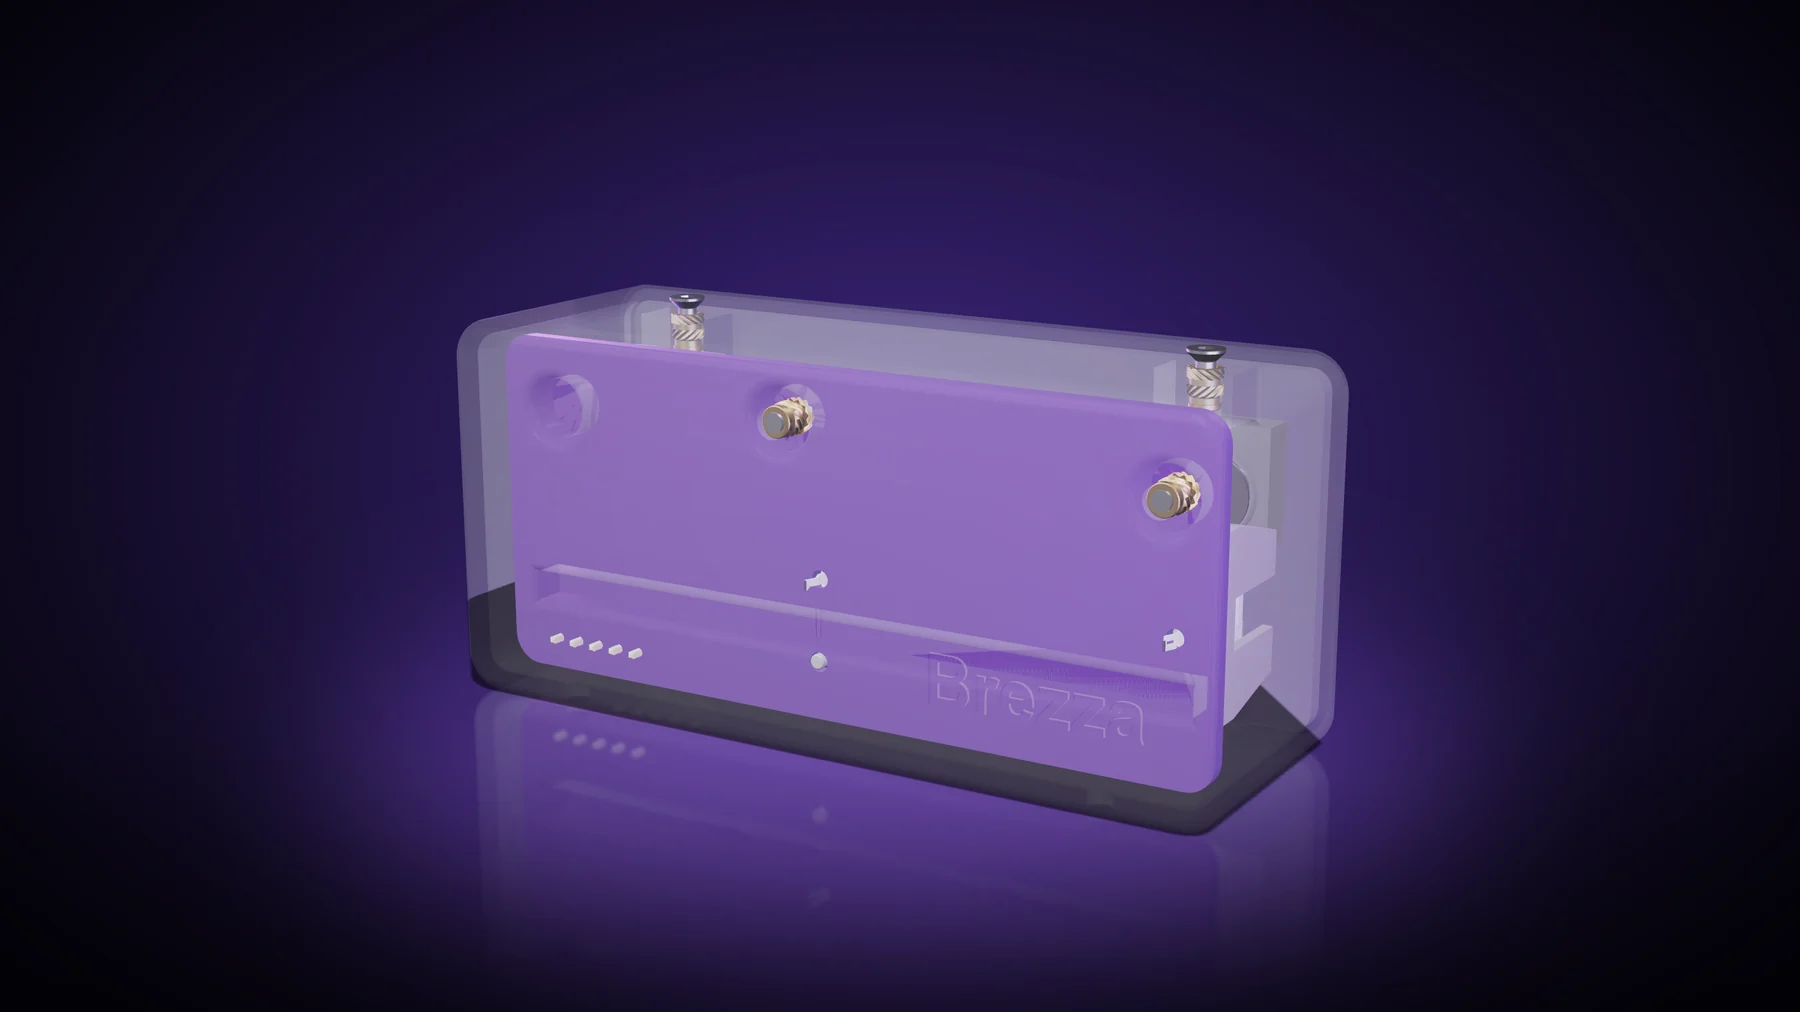
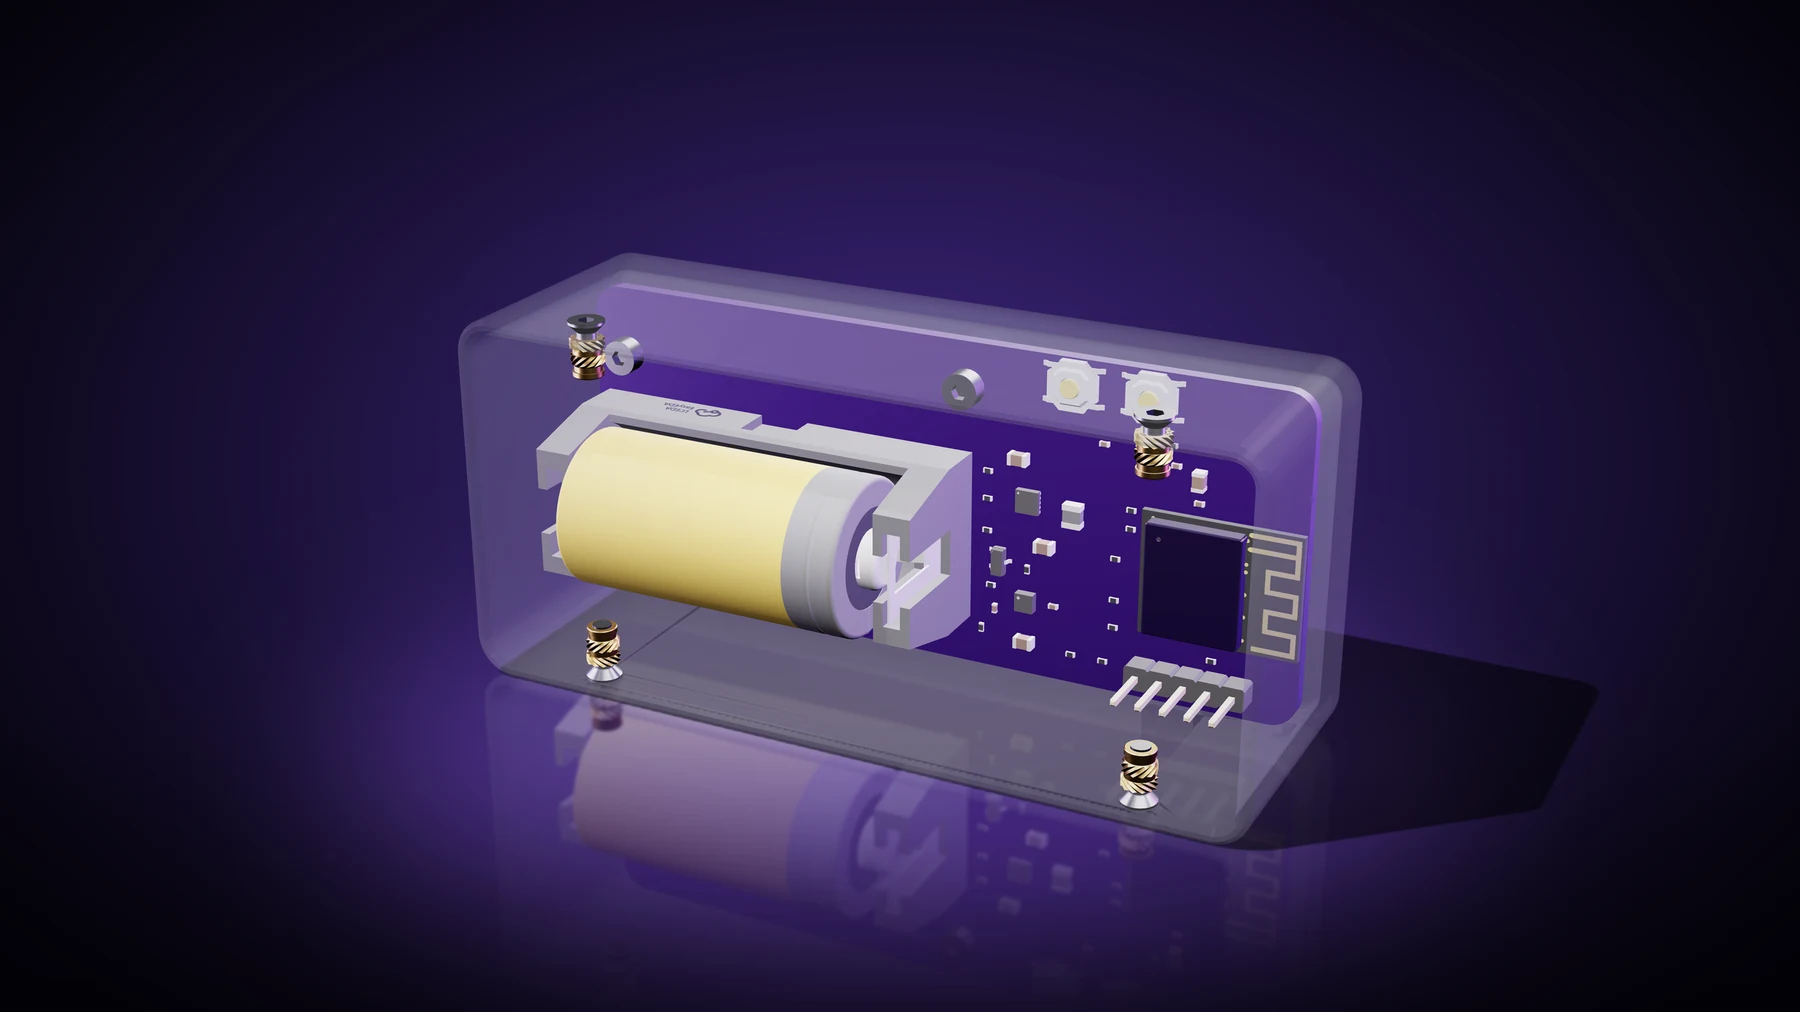
Carousel: clear-glass box rebuilt from the separate-body model, seen from the back
Claude-Session: https://claude.ai/code/session_017dD8CsxqmC6i7KGPqd1hP3

Changed region(s): [[0.2489, 0.2451, 0.9022, 0.8577]]

diff --git a/index.html b/index.html
@@ -177,7 +177,7 @@ footer{padding:40px 0;text-align:center;color:var(--muted);font-size:13px;border
   </div>
   <div class="stage-hero">
     <div class="glow"></div><span class="ring"></span><span class="ring r2"></span><span class="ring r3"></span>
-    <div class="float"><img class="hero-img" id="heroimg" src="img/hero_board.webp?v=4" alt="The Brezza board: ESP32-H2, accelerometer and CR123A holder"></div>
+    <div class="float"><img class="hero-img" id="heroimg" src="img/hero_board.webp?v=5" alt="The Brezza board: ESP32-H2, accelerometer and CR123A holder"></div>
   </div>
 </header>
 
@@ -210,8 +210,8 @@ footer{padding:40px 0;text-align:center;color:var(--muted);font-size:13px;border
     <p class="lead rv d2">Same firmware, same pin map. Pick the one that fits your workshop.</p>
     <div class="grid">
       <div class="card rv"><h3>Breadboard</h3><p>ESP32-H2 SuperMini and a GY-291 breakout, with the cell on the 3V3 pin. The quickest way to try it.</p><a data-gh="https://github.com/altrdev/brezza/tree/main/hardware/breadboard">Wiring ›</a></div>
-      <div class="card rv d1"><img src="img/pcb_module.webp?v=4" alt="Module board, 3D view"><h3>Module board</h3><p>Custom 80 × 35 mm PCB with ESP32-H2-MINI-1 and a TPS63900 buck-boost. Assembled by JLCPCB.</p><a data-gh="https://github.com/altrdev/brezza/tree/main/hardware/pcb">KiCad and BOM ›</a></div>
-      <div class="card rv d2"><img src="img/pcb_supermini.webp?v=4" alt="SuperMini board, 3D view"><h3>SuperMini board</h3><p>The same electronics with a SuperMini soldered by its edge. Easier to source.</p><a data-gh="https://github.com/altrdev/brezza/tree/main/hardware/pcb_supermini">KiCad and BOM ›</a></div>
+      <div class="card rv d1"><img src="img/pcb_module.webp?v=5" alt="Module board, 3D view"><h3>Module board</h3><p>Custom 80 × 35 mm PCB with ESP32-H2-MINI-1 and a TPS63900 buck-boost. Assembled by JLCPCB.</p><a data-gh="https://github.com/altrdev/brezza/tree/main/hardware/pcb">KiCad and BOM ›</a></div>
+      <div class="card rv d2"><img src="img/pcb_supermini.webp?v=5" alt="SuperMini board, 3D view"><h3>SuperMini board</h3><p>The same electronics with a SuperMini soldered by its edge. Easier to source.</p><a data-gh="https://github.com/altrdev/brezza/tree/main/hardware/pcb_supermini">KiCad and BOM ›</a></div>
     </div>
     <p class="lead rv">Design decisions and numbers: <a data-gh="https://github.com/altrdev/brezza/blob/main/hardware/SPEC.md"><code>hardware/SPEC.md</code></a></p>
   </div>
@@ -226,12 +226,12 @@ footer{padding:40px 0;text-align:center;color:var(--muted);font-size:13px;border
   <div class="car-wrap rv">
     <button class="nav-btn prev" id="prev" aria-label="Previous image">&#8249;</button>
     <div class="track" id="track" tabindex="0" aria-label="Enclosure images">
-      <figure class="slide on"><img src="img/slide-1.webp?v=4" alt="Closed box, front"><figcaption>Closed: it sits flat on the face of the bar.</figcaption></figure>
-      <figure class="slide"><img src="img/slide-2.webp?v=4" alt="Back of the box with the two T-nuts" loading="lazy"><figcaption>The back, with the two T-nuts that slide into the slot of the bar.</figcaption></figure>
-      <figure class="slide"><img src="img/slide-3.webp?v=4" alt="The base plate fixed on a section of the rail with two M4 screws, with the brass inserts in its four tabs" loading="lazy"><figcaption>The base on the rail: two T-nuts in the slot and two M4 screws hold it in place. The four brass inserts take the screws of the box.</figcaption></figure>
-      <figure class="slide"><img src="img/slide-4.webp?v=4" alt="The empty box seen from the back: the inside of the lid with its two brass inserts and the central rib" loading="lazy"><figcaption>The empty box, from the back: the inside of the lid, with the two brass inserts that take the board's M2 screws.</figcaption></figure>
-      <figure class="slide"><img src="img/slide-5.webp?v=4" alt="The inside of the box with the back plate removed: the purple board, the CR123A cell in its holder and the connector" loading="lazy"><figcaption>With the electronics: the board with its two M2 screws, the CR123A cell and its holder.</figcaption></figure>
-      <figure class="slide"><img src="img/slide-6.webp?v=4" alt="The box in clear glass with the board, inserts and screws in place" loading="lazy"><figcaption>The box in clear glass: board, inserts and screws in place.</figcaption></figure>
+      <figure class="slide on"><img src="img/slide-1.webp?v=5" alt="Closed box, front"><figcaption>Closed: it sits flat on the face of the bar.</figcaption></figure>
+      <figure class="slide"><img src="img/slide-2.webp?v=5" alt="Back of the box with the two T-nuts" loading="lazy"><figcaption>The back, with the two T-nuts that slide into the slot of the bar.</figcaption></figure>
+      <figure class="slide"><img src="img/slide-3.webp?v=5" alt="The base plate fixed on a section of the rail with two M4 screws, with the brass inserts in its four tabs" loading="lazy"><figcaption>The base on the rail: two T-nuts in the slot and two M4 screws hold it in place. The four brass inserts take the screws of the box.</figcaption></figure>
+      <figure class="slide"><img src="img/slide-4.webp?v=5" alt="The empty box seen from the back: the inside of the lid with its two brass inserts and the central rib" loading="lazy"><figcaption>The empty box, from the back: the inside of the lid, with the two brass inserts that take the board's M2 screws.</figcaption></figure>
+      <figure class="slide"><img src="img/slide-5.webp?v=5" alt="The inside of the box with the back plate removed: the purple board, the CR123A cell in its holder and the connector" loading="lazy"><figcaption>With the electronics: the board with its two M2 screws, the CR123A cell and its holder.</figcaption></figure>
+      <figure class="slide"><img src="img/slide-6.webp?v=5" alt="The box in clear glass seen from the back: the purple board with its ESP32 module, the CR123A cell in its holder, the brass inserts and the screws" loading="lazy"><figcaption>The box in clear glass: the board, the cell, the inserts and the screws in place.</figcaption></figure>
     </div>
     <button class="nav-btn next" id="next" aria-label="Next image">&#8250;</button>
     <div class="dots" id="dots"></div>
